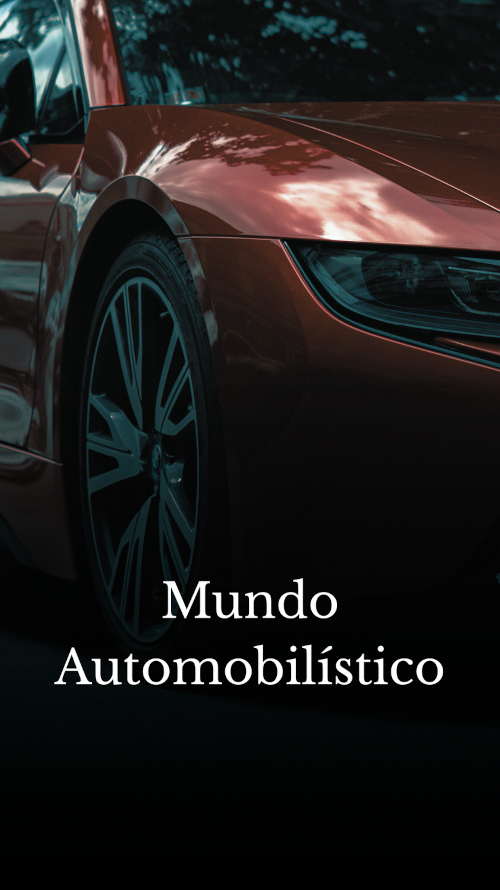
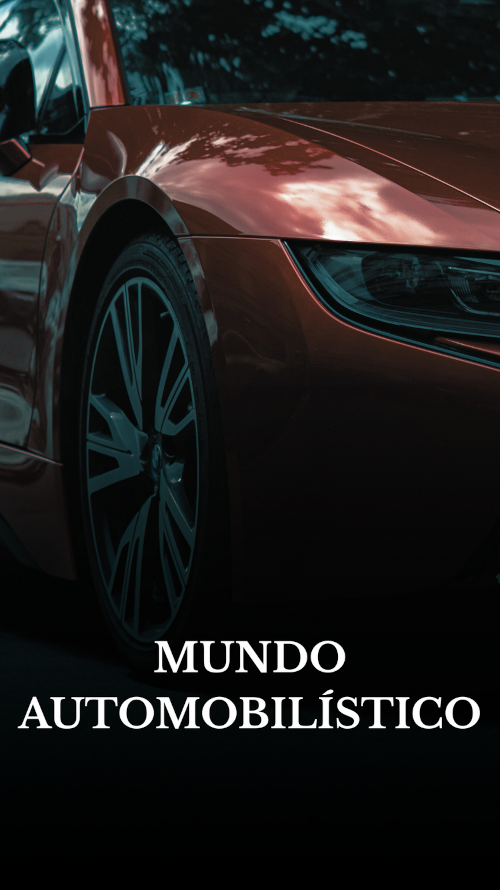
Realizei a atualização das imagens do primeiro swiper de serviços e caminhando para a atualização de responsividade

Changed region(s): [[0.03, 0.6371, 0.96, 0.8191]]

diff --git a/IQProd.html b/IQProd.html
@@ -149,6 +149,15 @@
 
                 </li>
 
+                <!--Imagem do serviço de landing pages-->
+                <li class="card-item swiper-slide">
+
+                    <a href="" class="card-link">
+                    <img class="card-image" src="IMAGENS/Servicos/SerLanding.png" alt="Serviços-treinos">
+                    </a>
+
+                </li>
+
             </ul>
 
             <!--Botao de passar o slider-->

diff --git a/ESTILOS/mqIQ.css b/ESTILOS/mqIQ.css
@@ -40,4 +40,12 @@
     .card-wrapper-clientes{
         padding-left: 40px;
     }
+
+    h1{
+    font-size: 1.8em !important;
+    }
+
+    .card-list .card-link .card-image{
+    object-fit: contain;
+    }
 }
